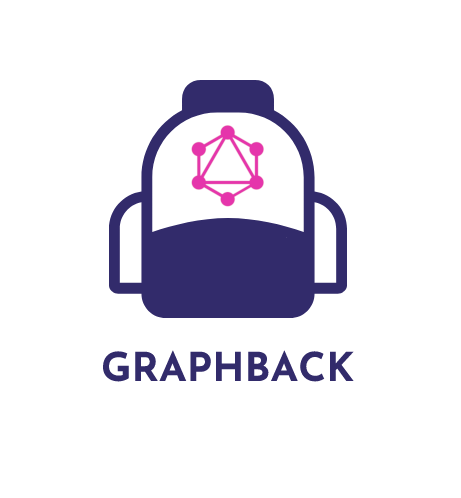
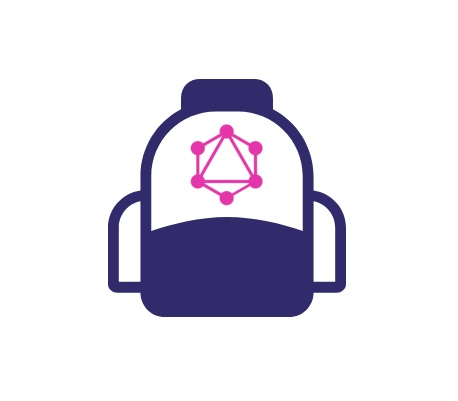
fix: index page

Changed region(s): [[0.214, 0.1496, 0.7642, 0.808]]

diff --git a/website/pages/en/index.js b/website/pages/en/index.js
@@ -60,13 +60,13 @@ class HomeSplash extends React.Component {
 
     return (
       <SplashContainer>
-        <Logo img_src={`${baseUrl}img/undraw_monitor.svg`} />
+        <image src={`${baseUrl}img/graphback.png`} />
         <div className="inner">
           <ProjectTitle siteConfig={siteConfig} />
           <PromoSection>
-            <Button href="#try">Try It Out</Button>
-            <Button href={docUrl('doc1.html')}>Example Link</Button>
-            <Button href={docUrl('doc2.html')}>Example Link 2</Button>
+            {/* <Button href="#try">Try It Out</Button> */}
+            <Button href="/docs/getting-started">View Docs</Button>
+            <Button href={siteConfig.repoUrl}>Github</Button>
           </PromoSection>
         </div>
       </SplashContainer>
@@ -146,7 +146,7 @@ class Index extends React.Component {
     );
 
     const Features = () => (
-      <Block layout="fourColumn">
+      <Block layout="twoColumn">
         {[
           {
             content: 'This is the content of my feature',
@@ -197,12 +197,12 @@ class Index extends React.Component {
       <div>
         <HomeSplash siteConfig={siteConfig} language={language} />
         <div className="mainContainer">
-          <Features />
-          <FeatureCallout />
+          {/* <Features /> */}
+          {/* <FeatureCallout />
           <LearnHow />
           <TryOut />
           <Description />
-          <Showcase />
+          <Showcase /> */}
         </div>
       </div>
     );

diff --git a/website/siteConfig.js b/website/siteConfig.js
@@ -22,7 +22,7 @@ const users = [
 
 const siteConfig = {
   title: 'Graphback', // Title for your website.
-  tagline: 'A website for testing',
+  tagline: 'A backpack for your GraphQL needs',
   url: 'https://your-docusaurus-test-site.com', // Your website URL
   baseUrl: '/', // Base URL for your project */
   // For github.io type URLs, you would set the url and baseUrl like:
@@ -53,8 +53,8 @@ const siteConfig = {
 
   /* Colors for website */
   colors: {
-    primaryColor: '#852b4a',
-    secondaryColor: '#5d1e33',
+    primaryColor: '#3F51B5',
+    secondaryColor: '#303F9F',
   },
 
   /* Custom fonts for website */

diff --git a/README.md b/README.md
@@ -5,7 +5,7 @@
 
 
 ## Graphback
-![](docs/images/graphback.png)
+![](website/static/img/graphback.png)
 
 Auto generate database structure, GraphQL resolvers and queries from GraphQL types 🚀. See [documentation](https://aerogear.github.io/graphback) for usage and more.
 
